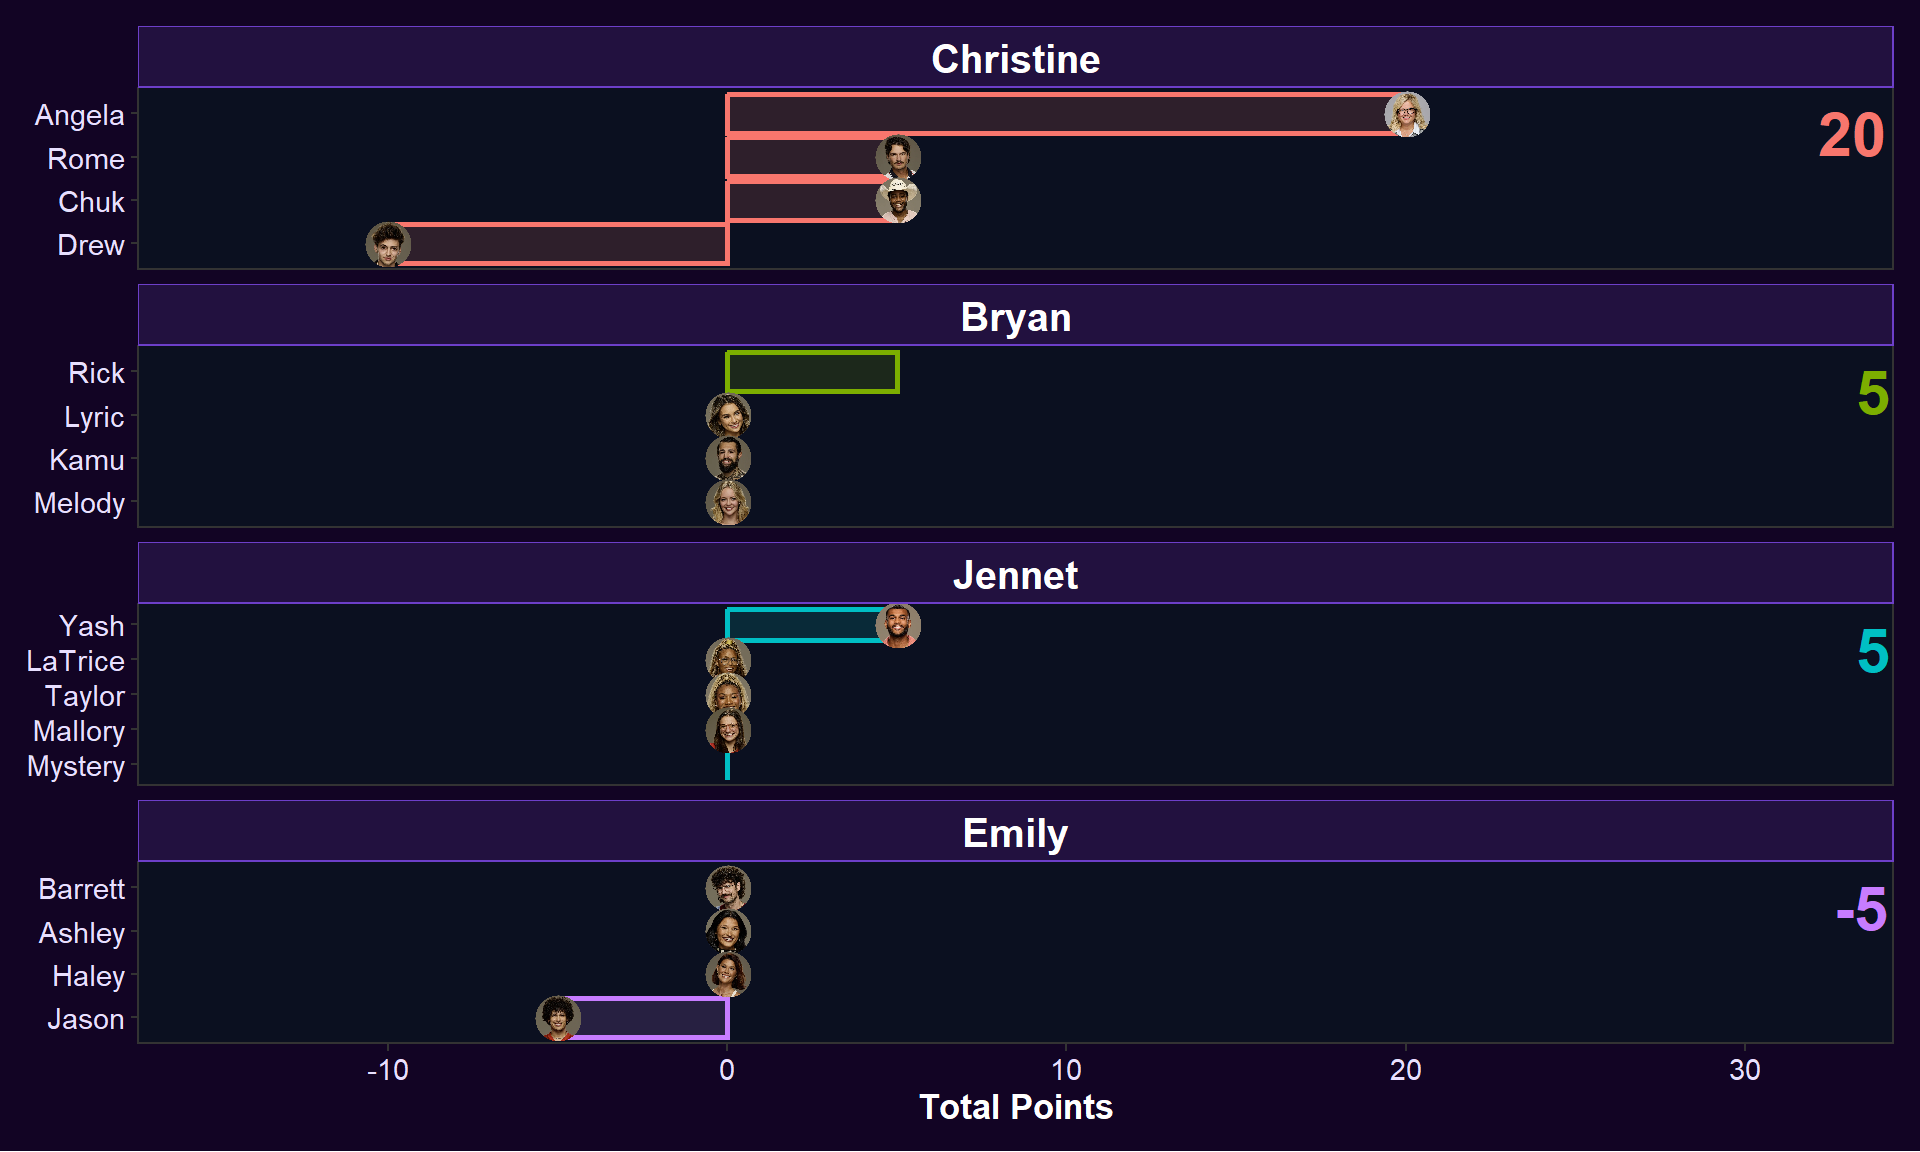
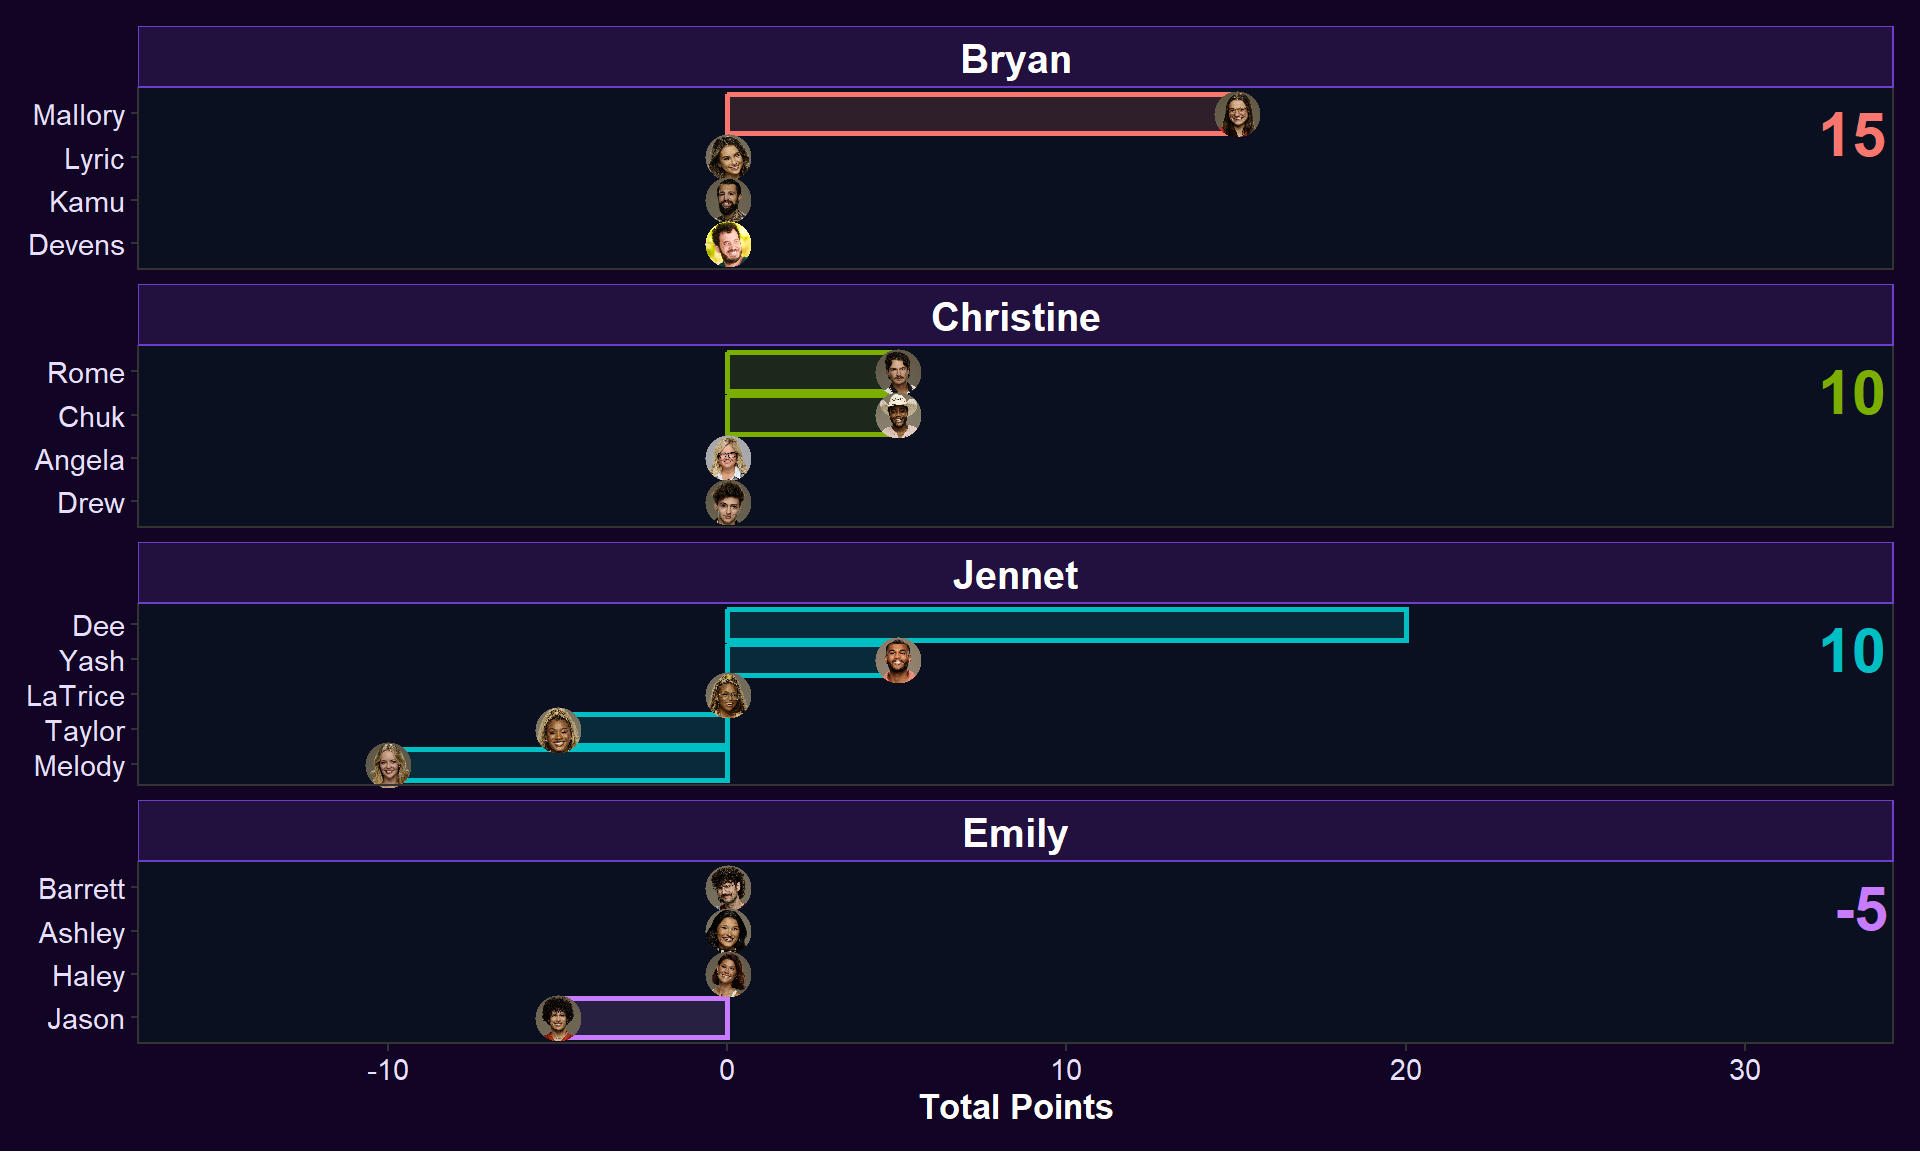
first week

diff --git a/index.html b/index.html
@@ -123,18 +123,11 @@ grid-auto-rows: minmax(0, 1fr);">
 <td style="text-align: right;">1</td>
 </tr>
 <tr class="even">
-<td style="text-align: left;">Christine</td>
-<td style="text-align: right;">1</td>
-<td style="text-align: right;">0</td>
-<td style="text-align: right;">0</td>
-<td style="text-align: right;">1</td>
-</tr>
-<tr class="odd">
 <td style="text-align: left;">Jennet</td>
-<td style="text-align: right;">0</td>
+<td style="text-align: right;">1</td>
 <td style="text-align: right;">0</td>
 <td style="text-align: right;">1</td>
-<td style="text-align: right;">1</td>
+<td style="text-align: right;">3</td>
 </tr>
 </tbody>
 </table>
@@ -184,7 +177,8 @@ grid-auto-rows: minmax(0, 1fr);">
 <div class="html-fill-item html-fill-container bslib-grid" style="display: grid; grid-template-rows: minmax(3em, 1fr); grid-auto-columns: minmax(0, 1fr);">
 <div class="html-fill-item html-fill-container bslib-grid" style="display: grid; grid-template-columns: minmax(3em, 1fr) minmax(3em, 1fr);
 grid-auto-rows: minmax(0, 1fr);">
-<div class="card cell html-fill-item html-fill-container bslib-card" data-bslib-card-init="" data-require-bs-caller="card()" data-full-screen="false">
+<div class="card cell html-fill-item html-fill-container bslib-card" data-title="{}" data-bslib-card-init="" data-require-bs-caller="card()" data-full-screen="false">
+<div class="card-header"><div class="card-title">{}</div></div>
 <div class="card-body html-fill-item html-fill-container">
 <div class="cell-output-display html-fill-item html-fill-container">
 <table class="caption-top table table-sm table-striped small">
@@ -297,11 +291,11 @@ grid-auto-rows: minmax(0, 1fr);">
 <div class="cell-output-display html-fill-item html-fill-container">
 <table class="caption-top table table-sm table-striped small">
 <colgroup>
-<col style="width: 16%">
-<col style="width: 15%">
 <col style="width: 15%">
 <col style="width: 14%">
-<col style="width: 29%">
+<col style="width: 14%">
+<col style="width: 13%">
+<col style="width: 33%">
 <col style="width: 8%">
 </colgroup>
 <thead>
@@ -350,12 +344,20 @@ grid-auto-rows: minmax(0, 1fr);">
 <tr class="odd">
 <td style="text-align: left;">July 10 2026</td>
 <td style="text-align: right;">1</td>
-<td style="text-align: left;">Angela</td>
-<td style="text-align: left;">Christine</td>
+<td style="text-align: left;">Dee</td>
+<td style="text-align: left;">Jennet</td>
 <td style="text-align: left;">Wins HOH</td>
 <td style="text-align: right;">20</td>
 </tr>
 <tr class="even">
+<td style="text-align: left;">July 10 2026</td>
+<td style="text-align: right;">1</td>
+<td style="text-align: left;">Mallory</td>
+<td style="text-align: left;">Bryan</td>
+<td style="text-align: left;">Gets Nominated</td>
+<td style="text-align: right;">-5</td>
+</tr>
+<tr class="odd">
 <td style="text-align: left;">July 10 2026</td>
 <td style="text-align: right;">1</td>
 <td style="text-align: left;">Yash</td>
@@ -363,32 +365,40 @@ grid-auto-rows: minmax(0, 1fr);">
 <td style="text-align: left;">Gets Nominated</td>
 <td style="text-align: right;">-5</td>
 </tr>
-<tr class="odd">
+<tr class="even">
 <td style="text-align: left;">July 10 2026</td>
 <td style="text-align: right;">1</td>
-<td style="text-align: left;">Rick</td>
-<td style="text-align: left;">Bryan</td>
+<td style="text-align: left;">Taylor</td>
+<td style="text-align: left;">Jennet</td>
 <td style="text-align: left;">Gets Nominated</td>
 <td style="text-align: right;">-5</td>
 </tr>
-<tr class="even">
-<td style="text-align: left;">July 12 2026</td>
+<tr class="odd">
+<td style="text-align: left;">July 11 2026</td>
 <td style="text-align: right;">1</td>
-<td style="text-align: left;">Rick</td>
+<td style="text-align: left;">Mallory</td>
 <td style="text-align: left;">Bryan</td>
 <td style="text-align: left;">Wins Veto</td>
 <td style="text-align: right;">10</td>
 </tr>
-<tr class="odd">
-<td style="text-align: left;">July 13 2026</td>
+<tr class="even">
+<td style="text-align: left;">July 14 2026</td>
 <td style="text-align: right;">1</td>
-<td style="text-align: left;">Drew</td>
-<td style="text-align: left;">Christine</td>
+<td style="text-align: left;">Mallory</td>
+<td style="text-align: left;">Bryan</td>
+<td style="text-align: left;">Uses the Veto on Themselves</td>
+<td style="text-align: right;">10</td>
+</tr>
+<tr class="odd">
+<td style="text-align: left;">July 15 2026</td>
+<td style="text-align: right;">1</td>
+<td style="text-align: left;">Melody</td>
+<td style="text-align: left;">Jennet</td>
 <td style="text-align: left;">Renominated</td>
 <td style="text-align: right;">-10</td>
 </tr>
 <tr class="even">
-<td style="text-align: left;">July 14 2026</td>
+<td style="text-align: left;">July 16 2026</td>
 <td style="text-align: right;">1</td>
 <td style="text-align: left;">Yash</td>
 <td style="text-align: left;">Jennet</td>
